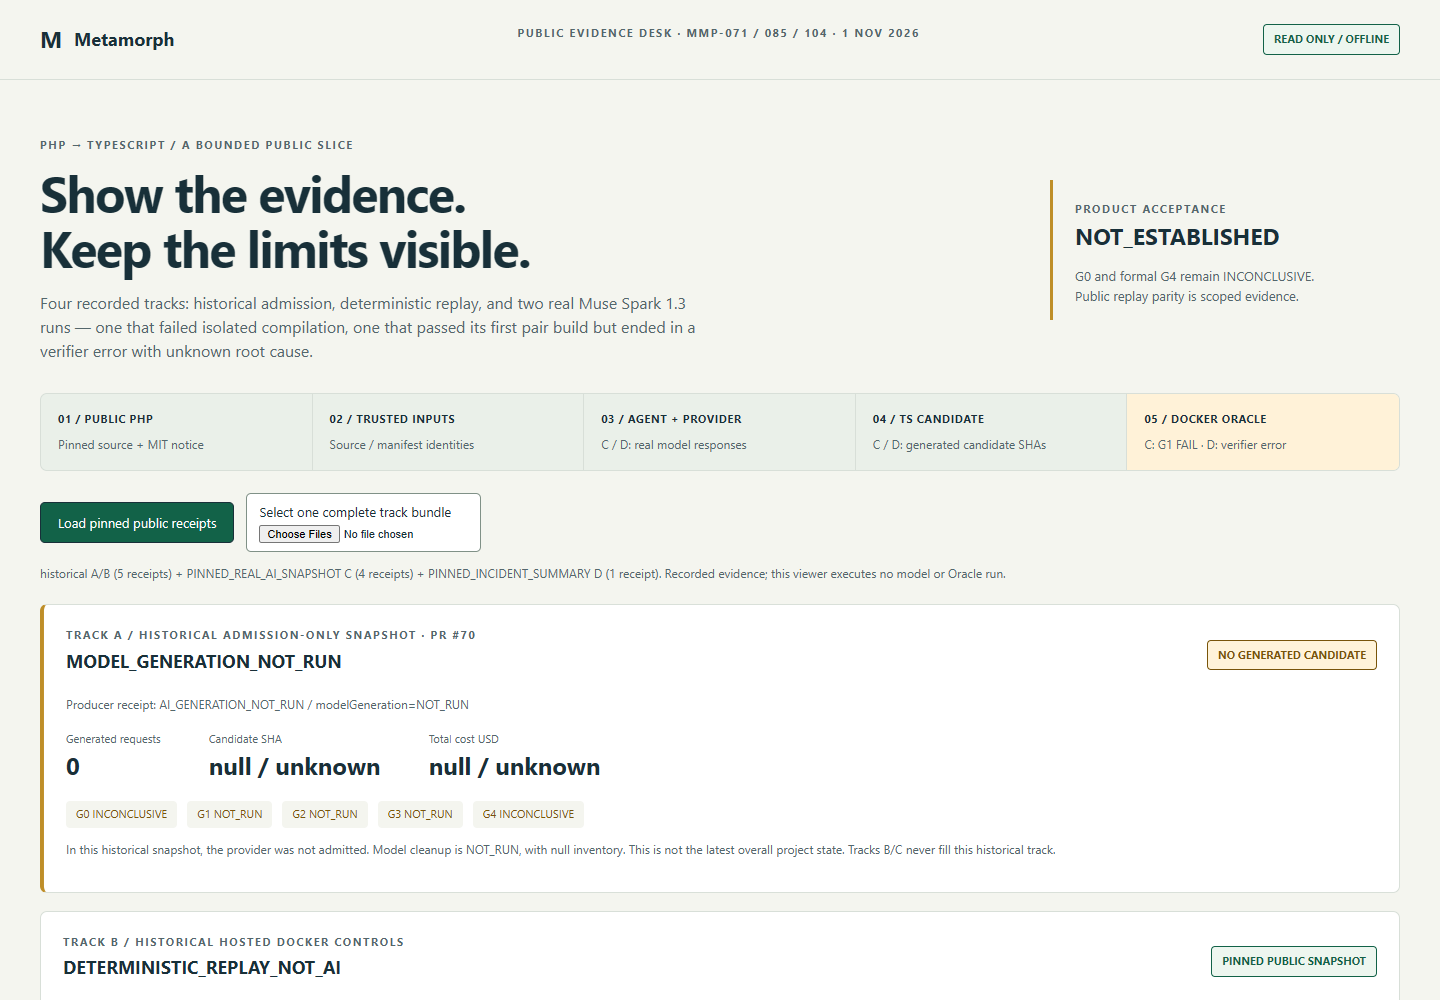
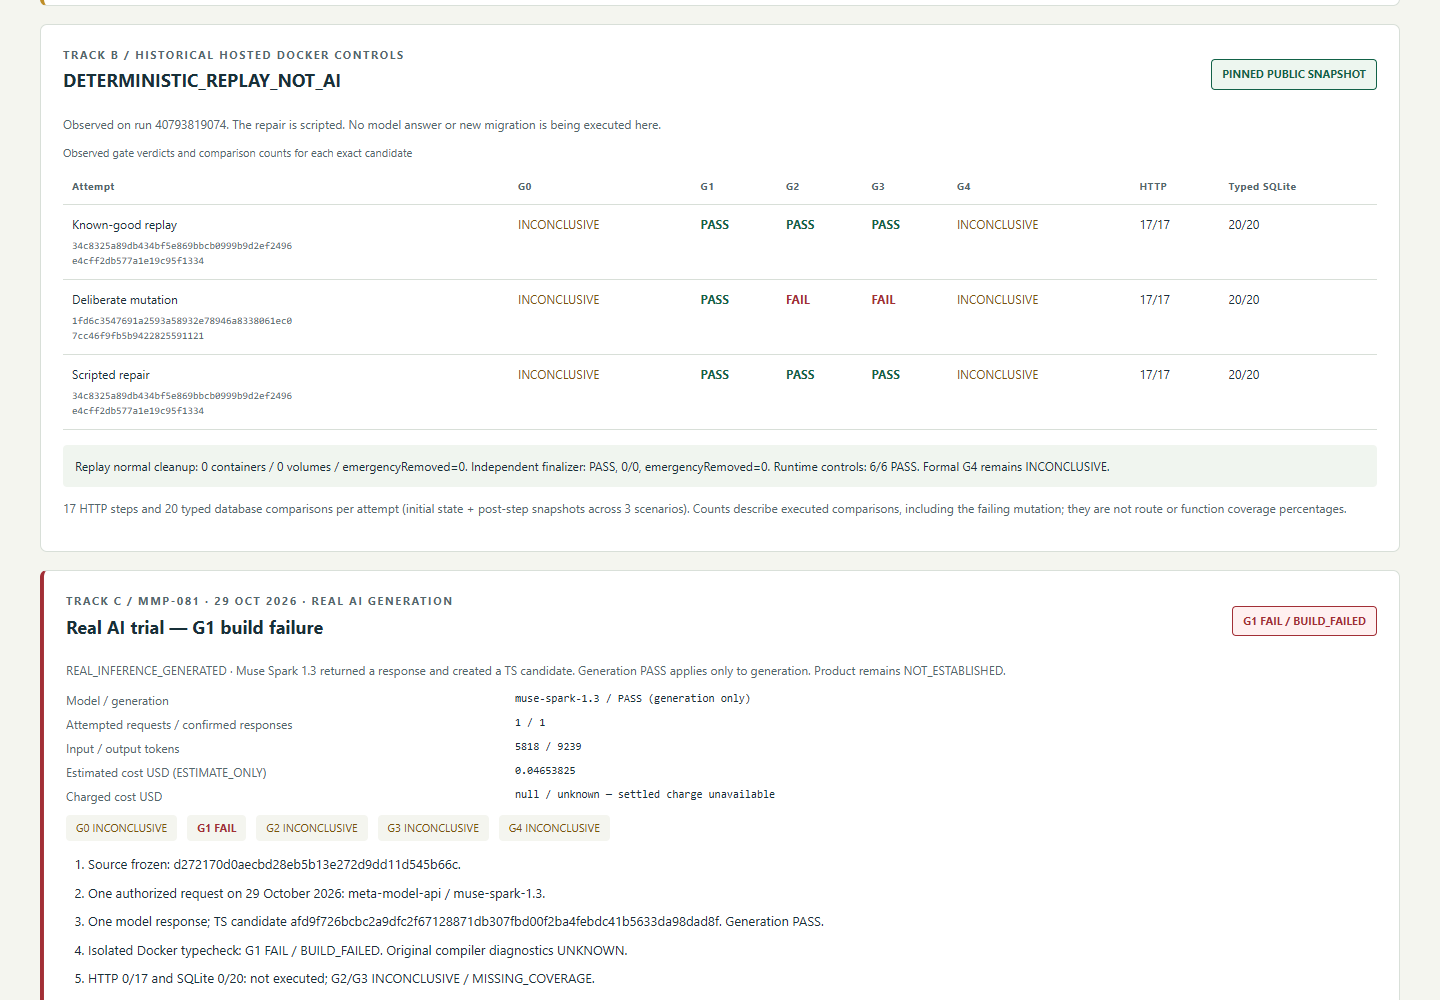
docs(demo): correct baseline evidence screenshot (#149)
Replace duplicated 1440px baseline image with distinct byte-verified Track B capture and provenance metadata. Independently reviewed exact SHA; resolves #145.

diff --git a/research/demo-readiness/VALIDATION-140.md b/research/demo-readiness/VALIDATION-140.md
@@ -82,10 +82,46 @@ also loaded A–D and captured full-page screenshots at 1440/768/390. After imag
 come from the committed optional smoke. Before/after are viewport captures at
 1000px height; they illustrate presentation, not acceptance or new execution.
 
+### MMP-145 correction — 3 November 2026 (Europe/Bucharest)
+
+The original desktop home and evidence captures were byte-identical (Git blob
+`25873784a5ba60b42b6313775d01dc3e2e15e708`). The earlier
+`scrollIntoViewIfNeeded()` did not move an already-visible panel; the desktop
+evidence label therefore did not demonstrate a separate viewport. The home image
+is preserved. The desktop evidence image below is **replaced by an actual new
+capture**, not renamed or edited pixels.
+
+Baseline: full `git archive` export of `research/demo-readiness/` and
+`research/mmp-104/incident.json` at `d31711f612e14373308fa4f3a220b142567f2004`.
+The baseline's own unchanged `serve.mjs` served it on 127.0.0.1:4171; no route
+overrides. Chrome 156.0.8078.74, viewport **1440 × 1000**, device scale factor 1,
+reduced-motion enabled. Click **Load pinned public receipts**, wait for A–D and
+ten JSON options, then explicitly scroll to Track B's document top minus 24px:
+`window.scrollTo(0, document.getElementById('historical-replay').getBoundingClientRect().top + window.scrollY - 24)`.
+Recorded scroll is **x=0, y=887**, Track B top **23.796875px**; page width 1440px.
+The visible image includes the three replay attempts and real C's natural G1 FAIL.
+
+Capture UTC `2026-11-02T23:59:51.091Z` (3 November local time). New PNG: 95852 bytes,
[2 lines of base64/hex data omitted]
+The PNG bytes differ. [Capture metadata](screenshots/mmp140/recapture-145.json)
+records exact steps, position, browser and hashes. Actual screenshot inspected.
+No page exceptions or external page requests occurred. Receipts were unchanged;
+no model, candidate execution, Docker, keys or private data were used.
+
+Checks for this docs/media correction: capture/position/distinct-byte assertions
+exit 0; existing demo receipt tests 134 PASS, exit 0; local documentation link and
+PNG/hash checks exit 0; `git diff --check` exit 0. No runtime/CSS/adapters/receipt
+change. Root install/typecheck/test/build NOT_RUN for this proportional media-only
+slice; automatic PR CI is recorded separately in its PR. No human rehearsal or
+screen-reader claim is added. Independent exact-SHA review of the correction is
+pending; original #141 was independently approved and merged at
+`224e3ca717b9cda9c6973f70ba761adfbc7e4195`.
+
 | View | Before | After |
 | --- | --- | --- |
 | Desktop home, 1440px | [Before](screenshots/mmp140/before-home-1440.png) | [After](screenshots/mmp140/home-1440.png) |
-| Desktop evidence, 1440px | [Before](screenshots/mmp140/before-evidence-1440.png) | [After](screenshots/mmp140/evidence-1440.png) |
+| Desktop evidence, 1440px (MMP-145 recapture; y=887) | [Before](screenshots/mmp140/before-evidence-1440.png) | [After](screenshots/mmp140/evidence-1440.png) |
 | Mobile home, 390px | [Before](screenshots/mmp140/before-home-390.png) | [After](screenshots/mmp140/home-390.png) |
 | Mobile evidence, 390px | [Before](screenshots/mmp140/before-evidence-390.png) | [After](screenshots/mmp140/evidence-390.png) |
 | Tablet, 768px | Direct full-page baseline inspected; not shipped | [Home](screenshots/mmp140/home-768.png), [evidence](screenshots/mmp140/evidence-768.png) |

diff --git a/research/demo-readiness/README.md b/research/demo-readiness/README.md
@@ -21,6 +21,12 @@ are in [RUNBOOK.md](RUNBOOK.md). Current executed checks and before/after browse
 screenshots are in [VALIDATION-140.md](VALIDATION-140.md). Target pacing is not a
 measured human rehearsal.
 
+MMP-145 corrects the duplicate desktop baseline evidence image: the home capture
+is preserved, and the evidence viewport is genuinely recaptured from baseline
+`d31711f…` at 1440×1000, scroll y=887. [Exact provenance and correction](VALIDATION-140.md#mmp-145-correction--3-november-2026-europebucharest)
+and [capture metadata](screenshots/mmp140/recapture-145.json) distinguish it from
+the original duplicate. The UI, adapters, pins and receipts are unchanged.
+
 Read-only presentation built for the 2026-10-30 event (historical date), extended on 2026-11-02 with track D. Refs [#118](https://github.com/Meta-Project2026/Metamorph/issues/118), [#85](https://github.com/Meta-Project2026/Metamorph/issues/85), [#71](https://github.com/Meta-Project2026/Metamorph/issues/71), [#61](https://github.com/Meta-Project2026/Metamorph/issues/61), [#81](https://github.com/Meta-Project2026/Metamorph/issues/81), [#104](https://github.com/Meta-Project2026/Metamorph/issues/104).
 
 From the repository root, with Node 22.13+ / 24 and a modern browser:
